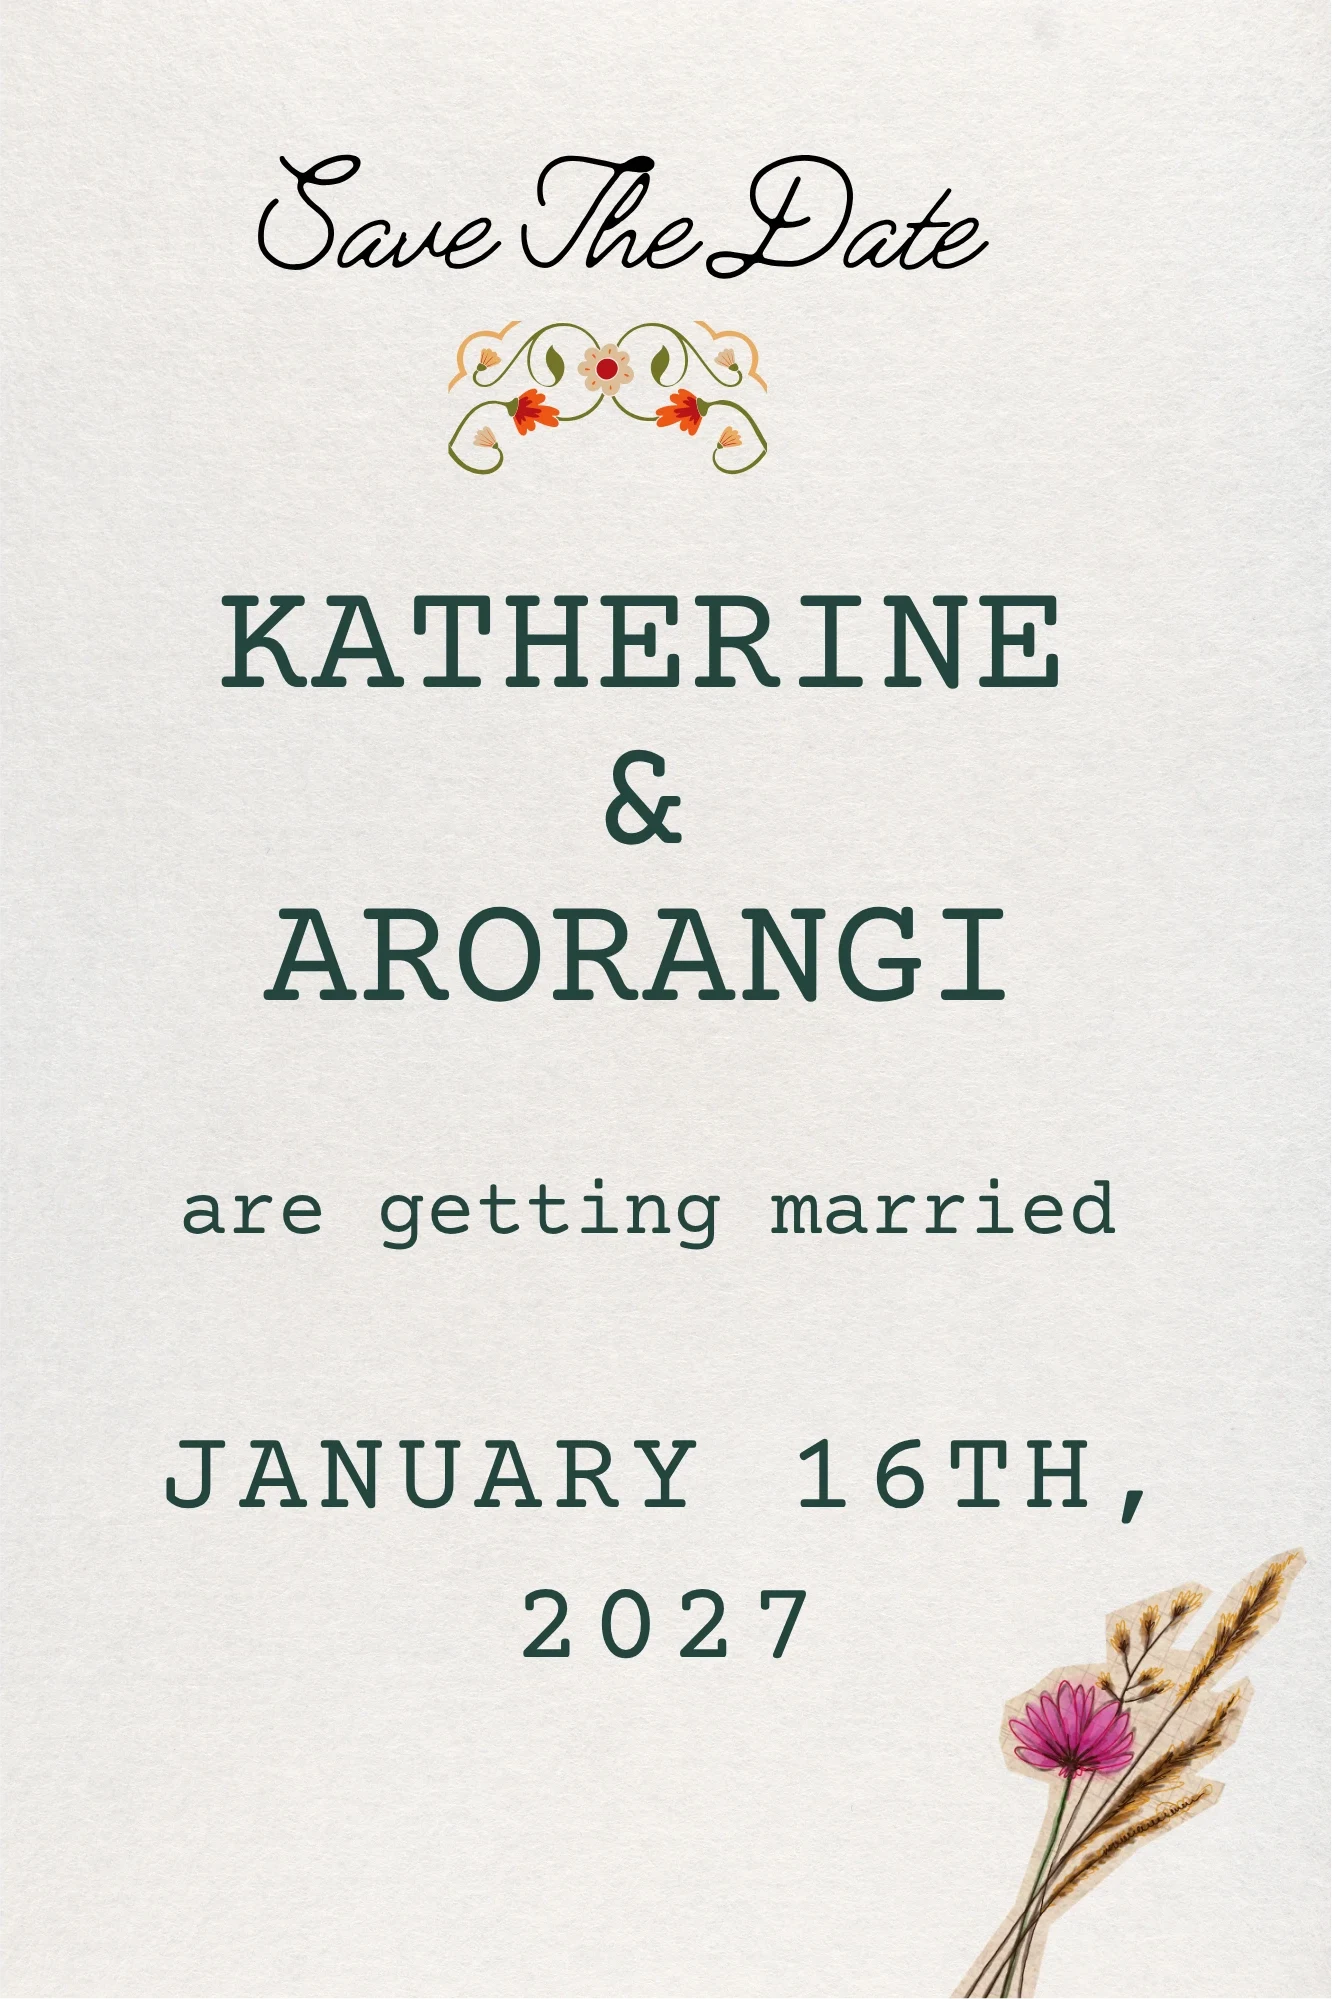
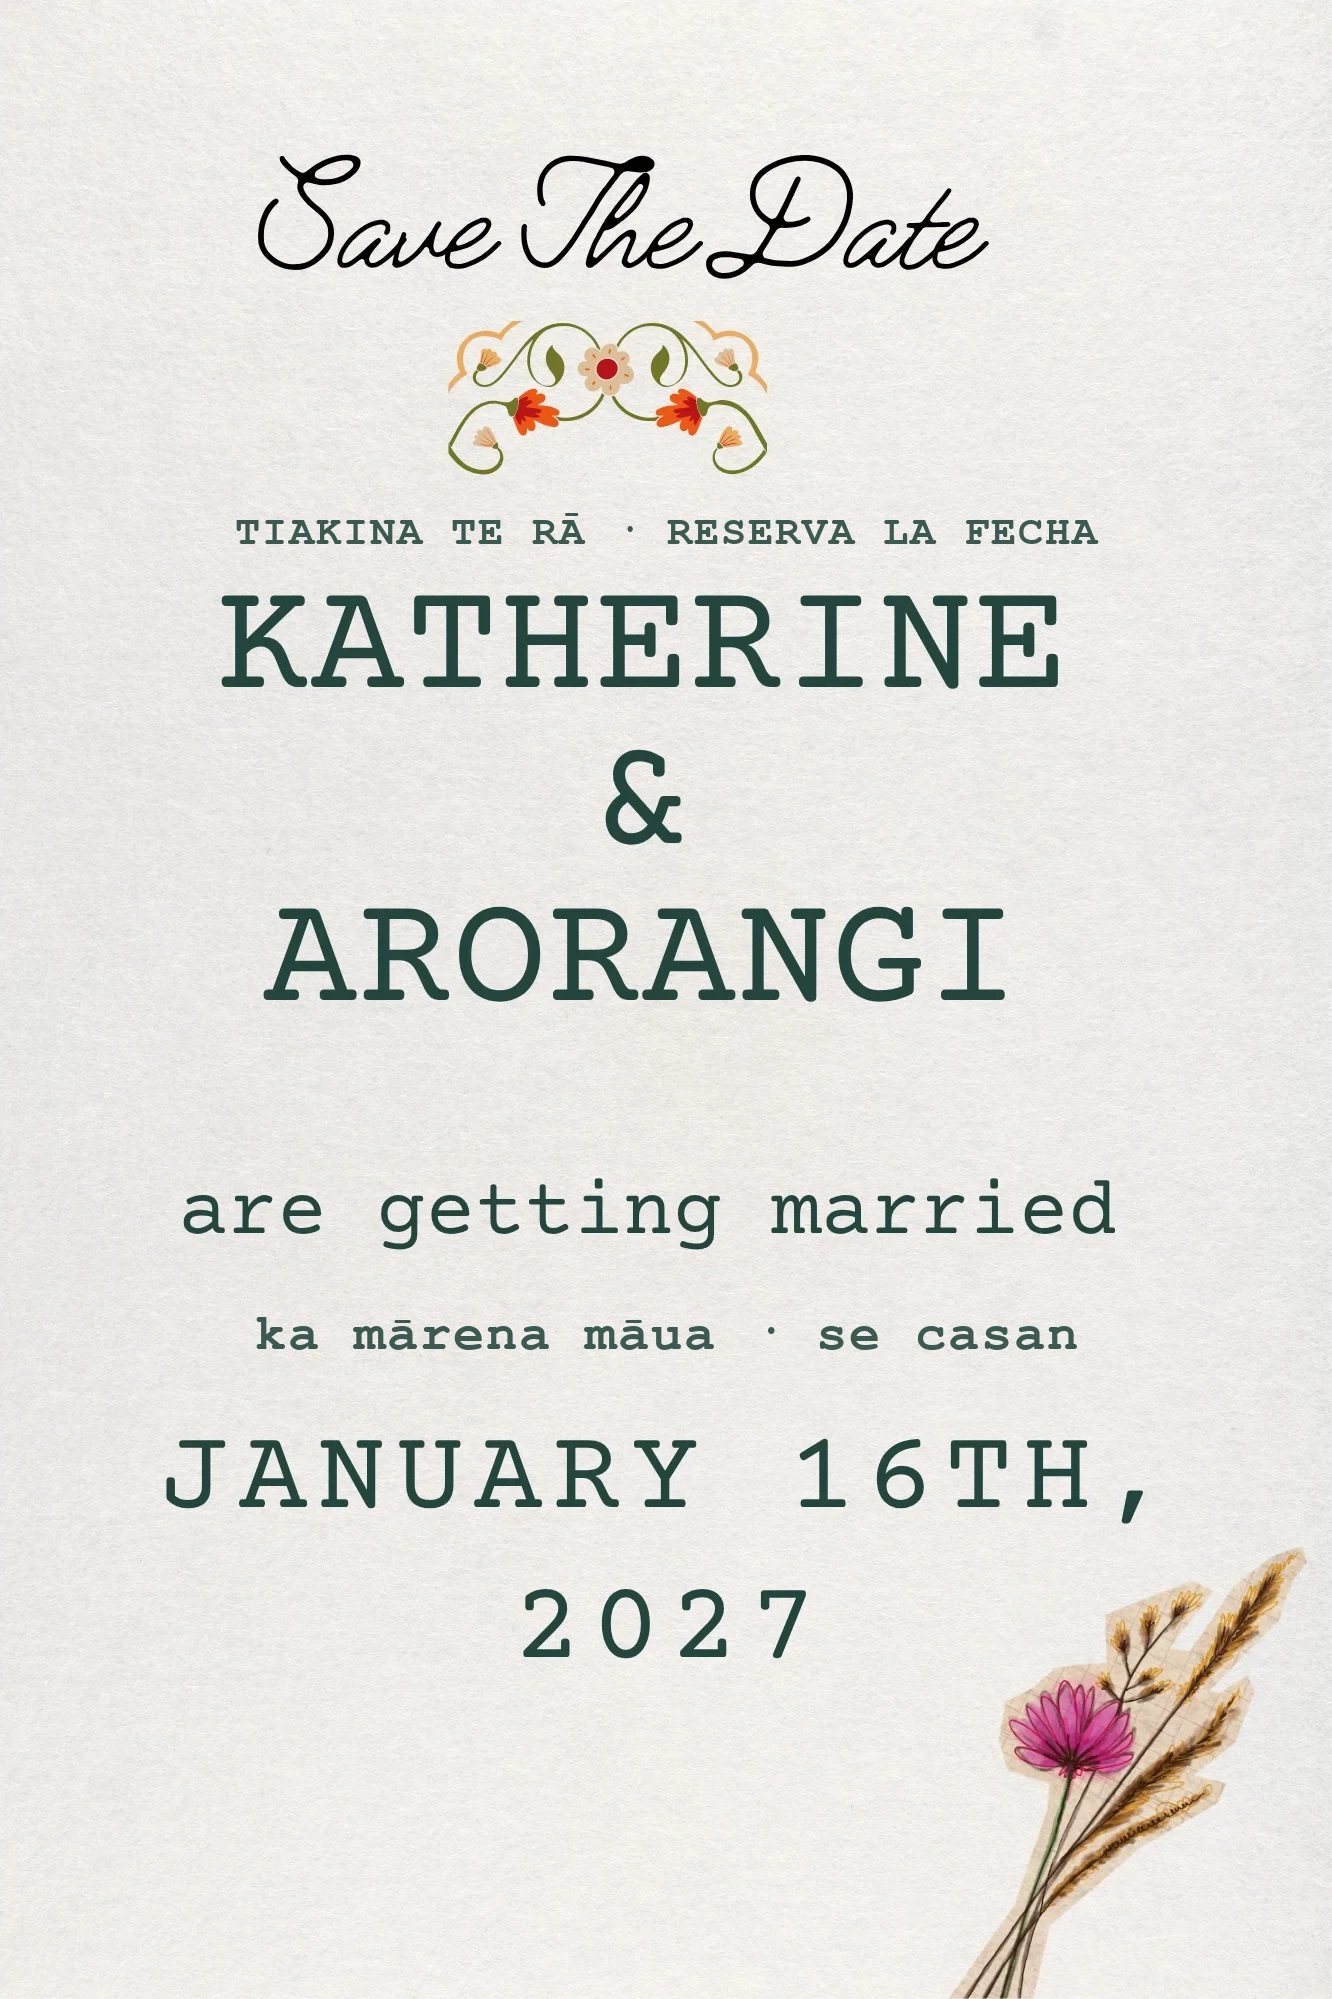
Add files via upload

diff --git a/index.html b/index.html
@@ -6,11 +6,17 @@
   <title>Katherine &amp; Arorangi · Save the Date</title>
   <meta name="description" content="Katherine &amp; Arorangi are getting married · 16 January 2027">
 
-  <!-- Link preview when the invite is texted / shared.
-       Once hosted, change these to full URLs, e.g. https://your-site.netlify.app/assets/card.webp -->
+  <!-- Link preview when the invite is texted / shared -->
+  <meta property="og:type" content="website">
+  <meta property="og:url" content="https://am1008768.github.io/KA-Wedding-Invitation/">
   <meta property="og:title" content="Katherine &amp; Arorangi · Save the Date">
   <meta property="og:description" content="We're getting married! 16 January 2027. Tap to open your invitation.">
-  <meta property="og:image" content="assets/card.webp">
+  <meta property="og:image" content="https://am1008768.github.io/KA-Wedding-Invitation/assets/preview.jpg">
+  <meta property="og:image:width" content="1200">
+  <meta property="og:image:height" content="630">
+  <meta property="og:image:alt" content="Save the Date card for Katherine and Arorangi, 16 January 2027">
+  <meta name="twitter:card" content="summary_large_image">
+  <link rel="icon" href="assets/seal.png">
   <meta name="theme-color" content="#e6ebe3">
 
   <link rel="preconnect" href="https://fonts.googleapis.com">
@@ -28,6 +34,7 @@
     }
 
     * { box-sizing: border-box; }
+    [hidden] { display: none !important; }
     html, body { margin: 0; height: 100%; }
     body {
       background: var(--bg) url("assets/background.webp") center top / cover no-repeat fixed;
@@ -41,7 +48,6 @@
       position: fixed; inset: 0;
       display: flex; flex-direction: column; align-items: center; justify-content: flex-end;
       padding-bottom: max(14svh, 60px);
-      perspective: 1600px;
     }
 
     /* Welcome title above the envelope */
@@ -50,11 +56,22 @@
       padding: 0 16px;
       font-family: "Great Vibes", cursive;
       font-weight: 400;
-      font-size: clamp(40px, 11vw, 68px);
-      line-height: 1.1;
-      color: #1f2a24;
+      font-size: clamp(38px, 10.5vw, 64px);
+      line-height: 1.15;
+      color: #17231d;
       text-align: center;
       text-shadow: 0 0 14px rgba(255, 255, 255, .9), 0 0 4px rgba(255, 255, 255, .8);
+      position: relative; isolation: isolate;
+    }
+    /* Soft cream "wash" behind the title so it reads clearly over the greenery */
+    .welcome::before {
+      content: ""; position: absolute; z-index: -1;
+      inset: -28px -8px -22px;
+      background: radial-gradient(ellipse at center,
+                  rgba(250, 248, 242, .92) 0%, rgba(250, 248, 242, .78) 40%,
+                  rgba(250, 248, 242, .35) 62%, rgba(250, 248, 242, 0) 75%);
+      filter: blur(2px);
+      pointer-events: none;
     }
 
     /* ---------- Envelope ---------- */
@@ -63,7 +80,6 @@
       width: var(--env-width);
       aspect-ratio: 1185 / 648;
       cursor: pointer;
-      transform-style: preserve-3d;
       animation: float 4s ease-in-out infinite;
     }
     .envelope.opening { animation: none; cursor: default; }
@@ -83,7 +99,10 @@
       position: absolute; left: 0; bottom: 100%;
       width: 100%;
       transform-origin: 50% 100%;
-      transform: rotateX(180deg) scaleY(.74);   /* closed: tip lands mid-envelope, under the seal */
+      /* closed: tip lands mid-envelope, under the seal. The flap carries its own perspective,
+         so the rest of the envelope stays flat and layers never flicker through each other (iPhone Safari). */
+      transform: perspective(900px) rotateX(180deg) scaleY(.74);
+      will-change: transform;
       z-index: 4;
     }
 
@@ -191,6 +210,13 @@
       color: #1f2a24;
     }
     section p { margin: 0 0 12px; }
+    /* Te Reo Māori · Spanish line under each heading */
+    .alt { margin: -6px 0 14px; font-size: 13px; letter-spacing: .14em; text-transform: uppercase; color: var(--ink-soft); }
+    .signoff-alt { margin: 0 0 4px; }
+    .welcome-alt { display: block; margin-top: 14px; font-family: "Courier Prime", monospace; font-size: clamp(13px, 3.6vw, 16px);
+                   letter-spacing: .22em; text-transform: uppercase; color: #1f3a30; font-weight: 700; }
+    .welcome-line { display: block; white-space: nowrap; }
+    .ph { white-space: nowrap; }   /* keep each language's phrase together; lines break at the dot */
     .big { font-size: 20px; font-weight: 700; letter-spacing: .08em; text-transform: uppercase; }
     .small { font-size: 15px; color: var(--ink-soft); }
 
@@ -201,6 +227,7 @@
     .motif.small { width: 80px; }
     .tilt-l { rotate: -6deg; }
     .tilt-r { rotate: 5deg; }
+ 
     .phone { color: var(--ink); font-weight: 700; font-size: 1.15em; letter-spacing: .05em; }
     .phone.email { font-size: 1em; letter-spacing: 0; overflow-wrap: anywhere; }
 
@@ -211,6 +238,9 @@
     }
     .timeline li:last-child { border-bottom: 0; }
     .timeline .time { font-weight: 700; }
+    .timeline .tl-alt { display: block; margin-top: 2px; font-size: 13px; line-height: 1.45; color: var(--ink-soft); }
+    .timeline .tl-alt span { display: block; }
+    .timeline .tl-alt [lang="es"] { font-style: italic; }
 
     .btn {
       display: inline-block; margin: 8px 4px 4px;
@@ -247,7 +277,7 @@
 <body class="loading">
 
   <main class="scene">
-    <h1 class="welcome" id="welcome">You have been invited</h1>
+    <h1 class="welcome" id="welcome"><span class="welcome-line" lang="mi">Nau mai, haere mai</span><span class="welcome-line" lang="es">Te invitamos</span><span class="welcome-alt">You have been invited</span></h1>
     <div class="envelope" id="envelope" role="button" aria-label="Open the invitation" tabindex="0">
       <img class="layer back"   src="assets/envelope-back.png"   alt="">
       <div class="card-clip"><img class="card" id="card" src="assets/card.webp" alt=""></div>
@@ -265,7 +295,7 @@
   <div class="details" id="details" aria-hidden="true" tabindex="-1">
    <div class="sheet">
     <header class="hero">
-      <img src="assets/card.webp" alt="Save the Date. Katherine and Arorangi are getting married, January 16th, 2027.">
+      <img src="assets/card.webp" alt="Save the Date (Tiakina te rā, Reserva la fecha). Katherine and Arorangi are getting married (ka mārena māua, se casan), January 16th, 2027.">
       <div class="scroll-hint">Scroll for details</div>
     </header>
 
@@ -276,11 +306,12 @@
 
       <section class="fade">
         <h2>The Day</h2>
+        <p class="alt" lang="mi-es"><span class="ph">Te Rā</span> <span class="dot">·</span> <span class="ph">El Día</span></p>
         <p class="big">Saturday 16 January 2027</p>
         <p>Guests arrive from 4:00pm<br>Ceremony at 4:30pm<br>Reception to follow</p>
         <p class="links">Add to calendar:
           <a id="gcal" href="#" target="_blank" rel="noopener">Google</a> ·
-          <a id="ical" href="#" download="katherine-arorangi-wedding.ics">Apple / Outlook</a>
+          <a id="ical" href="assets/wedding.ics">Apple / Outlook</a>
         </p>
       </section>
 
@@ -288,37 +319,42 @@
 
       <section class="fade">
         <h2>The Venue</h2>
+        <p class="alt" lang="mi-es"><span class="ph">Te Wāhi</span> <span class="dot">·</span> <span class="ph">El Lugar</span></p>
         <p class="big">The Old Mill</p>
         <p>32 Main Street<br>Hospital Hill<br>Napier 4110</p>
         <a class="btn" id="maps" href="#" target="_blank" rel="noopener">Open in Google Maps</a>
-        <p class="small" style="margin-top:14px"><span class="todo">Parking is available on site.</span></p>
+        <p class="small" style="margin-top:14px">Limited on-street parking is available.</p>
       </section>
 
       <img class="motif tilt-l fade" src="assets/poppy.webp" alt="">
 
+      <!-- ORDER OF THE DAY: hidden until the schedule is final. To bring it back, delete this line and the matching "END ORDER OF THE DAY" line below.
       <section class="fade">
         <h2>Order of the Day</h2>
+        <p class="alt" lang="mi-es"><span class="ph">Te Raupapa o te Rā</span> <span class="dot">·</span> <span class="ph">El Programa</span></p>
         <ul class="timeline">
-          <li><span class="time">4:00pm</span><span>Guests arrive</span></li>
-          <li><span class="time">4:30pm</span><span>Ceremony</span></li>
-          <li><span class="time">TBD</span><span>Drinks &amp; canapés</span></li>
-          <li><span class="time">TBD</span><span>Dinner &amp; speeches</span></li>
-          <li><span class="time">TBD</span><span>Cake &amp; dancing</span></li>
-          <li><span class="time">TBD</span><span>Carriages</span></li>
+          <li><span class="time">4:00pm</span><span>Guests arrive<span class="tl-alt"><span lang="mi">Ka tae mai ngā manuhiri</span><span lang="es">Llegada de invitados</span></span></span></li>
+          <li><span class="time">4:30pm</span><span>Ceremony<span class="tl-alt"><span lang="mi">Te Mārena</span><span lang="es">Ceremonia</span></span></span></li>
+          <li><span class="time">TBD</span><span>Drinks &amp; canapés<span class="tl-alt"><span lang="mi">Ngā inu me ngā kai māmā</span><span lang="es">Bebidas y aperitivos</span></span></span></li>
+          <li><span class="time">TBD</span><span>Dinner &amp; speeches<span class="tl-alt"><span lang="mi">Te hākari me ngā whaikōrero</span><span lang="es">Cena y discursos</span></span></span></li>
+          <li><span class="time">TBD</span><span>Cake &amp; dancing<span class="tl-alt"><span lang="mi">Te keke me te kanikani</span><span lang="es">Pastel y baile</span></span></span></li>
+          <li><span class="time">TBD</span><span>Carriages<span class="tl-alt"><span lang="mi">Te poroporoaki</span><span lang="es">Despedida</span></span></span></li>
         </ul>
       </section>
 
       <img class="motif fade" src="assets/champagne.webp" alt="">
+      END ORDER OF THE DAY -->
 
       <section class="fade">
         <h2>Dress Code</h2>
-        <p><span class="todo">Garden formal. Think summer suits and flowing dresses, and shoes that are happy on grass.</span></p>
+        <p class="alt" lang="mi-es"><span class="ph">Ngā Kākahu</span> <span class="dot">·</span> <span class="ph">Código de Vestimenta</span></p>
+        <p>Summer formal. Think summer suits and flowing dresses.<br>It could be a hot Hawke's Bay day, so dress for the heat.</p>
       </section>
 
-      <img class="motif tilt-r fade" src="assets/ginkgo.webp" alt="">
 
       <section class="fade">
         <h2>Adults Only</h2>
+        <p class="alt" lang="mi-es"><span class="ph">Mō ngā Pakeke Anake</span> <span class="dot">·</span> <span class="ph">Solo Adultos</span></p>
         <p>We love your little ones, but apart from a couple of very special little people in our immediate family, our celebration will be adults only. We hope you enjoy a night off with us!</p>
       </section>
 
@@ -326,6 +362,7 @@
 
       <section class="fade">
         <h2>RSVP</h2>
+        <p class="alt" lang="mi-es"><span class="ph">Whakautu Mai</span> <span class="dot">·</span> <span class="ph">Confirma tu Asistencia</span></p>
         <p>Please let us know if you can join us by <strong class="todo">1 December 2026</strong>.</p>
         <a class="btn solid" id="rsvp-form" href="#" target="_blank" rel="noopener" hidden>RSVP here</a>
         <a class="btn solid" id="rsvp-email" href="#">RSVP by email</a>
@@ -333,21 +370,18 @@
         <p class="small" id="rsvp-note" style="margin-top:14px">Please include everyone's names and any dietary requirements.</p>
       </section>
 
-      <img class="motif small fade" src="assets/heart.webp" alt="">
 
-      <section class="fade">
-        <h2>Gifts</h2>
-        <p><span class="todo">Having you there is the greatest gift. If you'd like to give something, there will be a wishing well on the day.</span></p>
-      </section>
 
       <section class="fade">
         <h2>Questions?</h2>
+        <p class="alt" lang="mi-es"><span class="ph">He Pātai?</span> <span class="dot">·</span> <span class="ph">¿Preguntas?</span></p>
         <p>Give us a call or text on<br><a class="phone" href="tel:+64274229299">027 422 9299</a></p>
         <p>or email us at<br><a class="phone email" href="mailto:katandaro159@gmail.com">katandaro159@gmail.com</a></p>
       </section>
 
       <footer class="signoff fade">
         <img class="sprig" src="assets/bouquet.webp" alt="">
+        <p class="alt signoff-alt"><span class="ph">Me te aroha</span> <span class="dot">·</span> <span class="ph">Con amor</span></p>
         <p class="names">With love,<br>Katherine &amp; Arorangi</p>
         <button class="again" id="again">↺ Open the envelope again</button>
       </footer>
@@ -400,13 +434,6 @@
       + '&dates=' + compact(EVENT.start) + '/' + compact(EVENT.end)
       + '&ctz=' + encodeURIComponent(EVENT.timezone)
       + '&location=' + encodeURIComponent(EVENT.venue);
-    $('ical').href = 'data:text/calendar;charset=utf-8,' + encodeURIComponent([
-      'BEGIN:VCALENDAR', 'VERSION:2.0', 'PRODID:-//wedding//invite//EN', 'BEGIN:VEVENT',
-      'UID:katherine-arorangi-2027@invite',
-      'DTSTART;TZID=' + EVENT.timezone + ':' + compact(EVENT.start),
-      'DTEND;TZID=' + EVENT.timezone + ':' + compact(EVENT.end),
-      'SUMMARY:' + EVENT.title, 'LOCATION:' + EVENT.venue.replace(/,/g, '\\,'),
-      'END:VEVENT', 'END:VCALENDAR'].join('\r\n'));
 
     const days = Math.ceil((new Date(EVENT.start) - new Date()) / 864e5);
     $('countdown').textContent = days > 1 ? `— ${days} days to go —` : days === 1 ? '— Tomorrow! —' : '';
@@ -443,7 +470,7 @@
 
       // 2. Flap opens; it drops behind the card once it passes vertical
       setTimeout(() => flap.style.zIndex = 0, T.flap / 2);
-      await run(flap, [{ transform: 'rotateX(180deg) scaleY(.74)' }, { transform: 'rotateX(0deg) scaleY(1)' }], { duration: T.flap });
+      await run(flap, [{ transform: 'perspective(900px) rotateX(180deg) scaleY(.74)' }, { transform: 'perspective(900px) rotateX(0deg) scaleY(1)' }], { duration: T.flap });
 
       // 3. Card slides up out of the envelope
       const rise = card.offsetHeight * 0.62;
